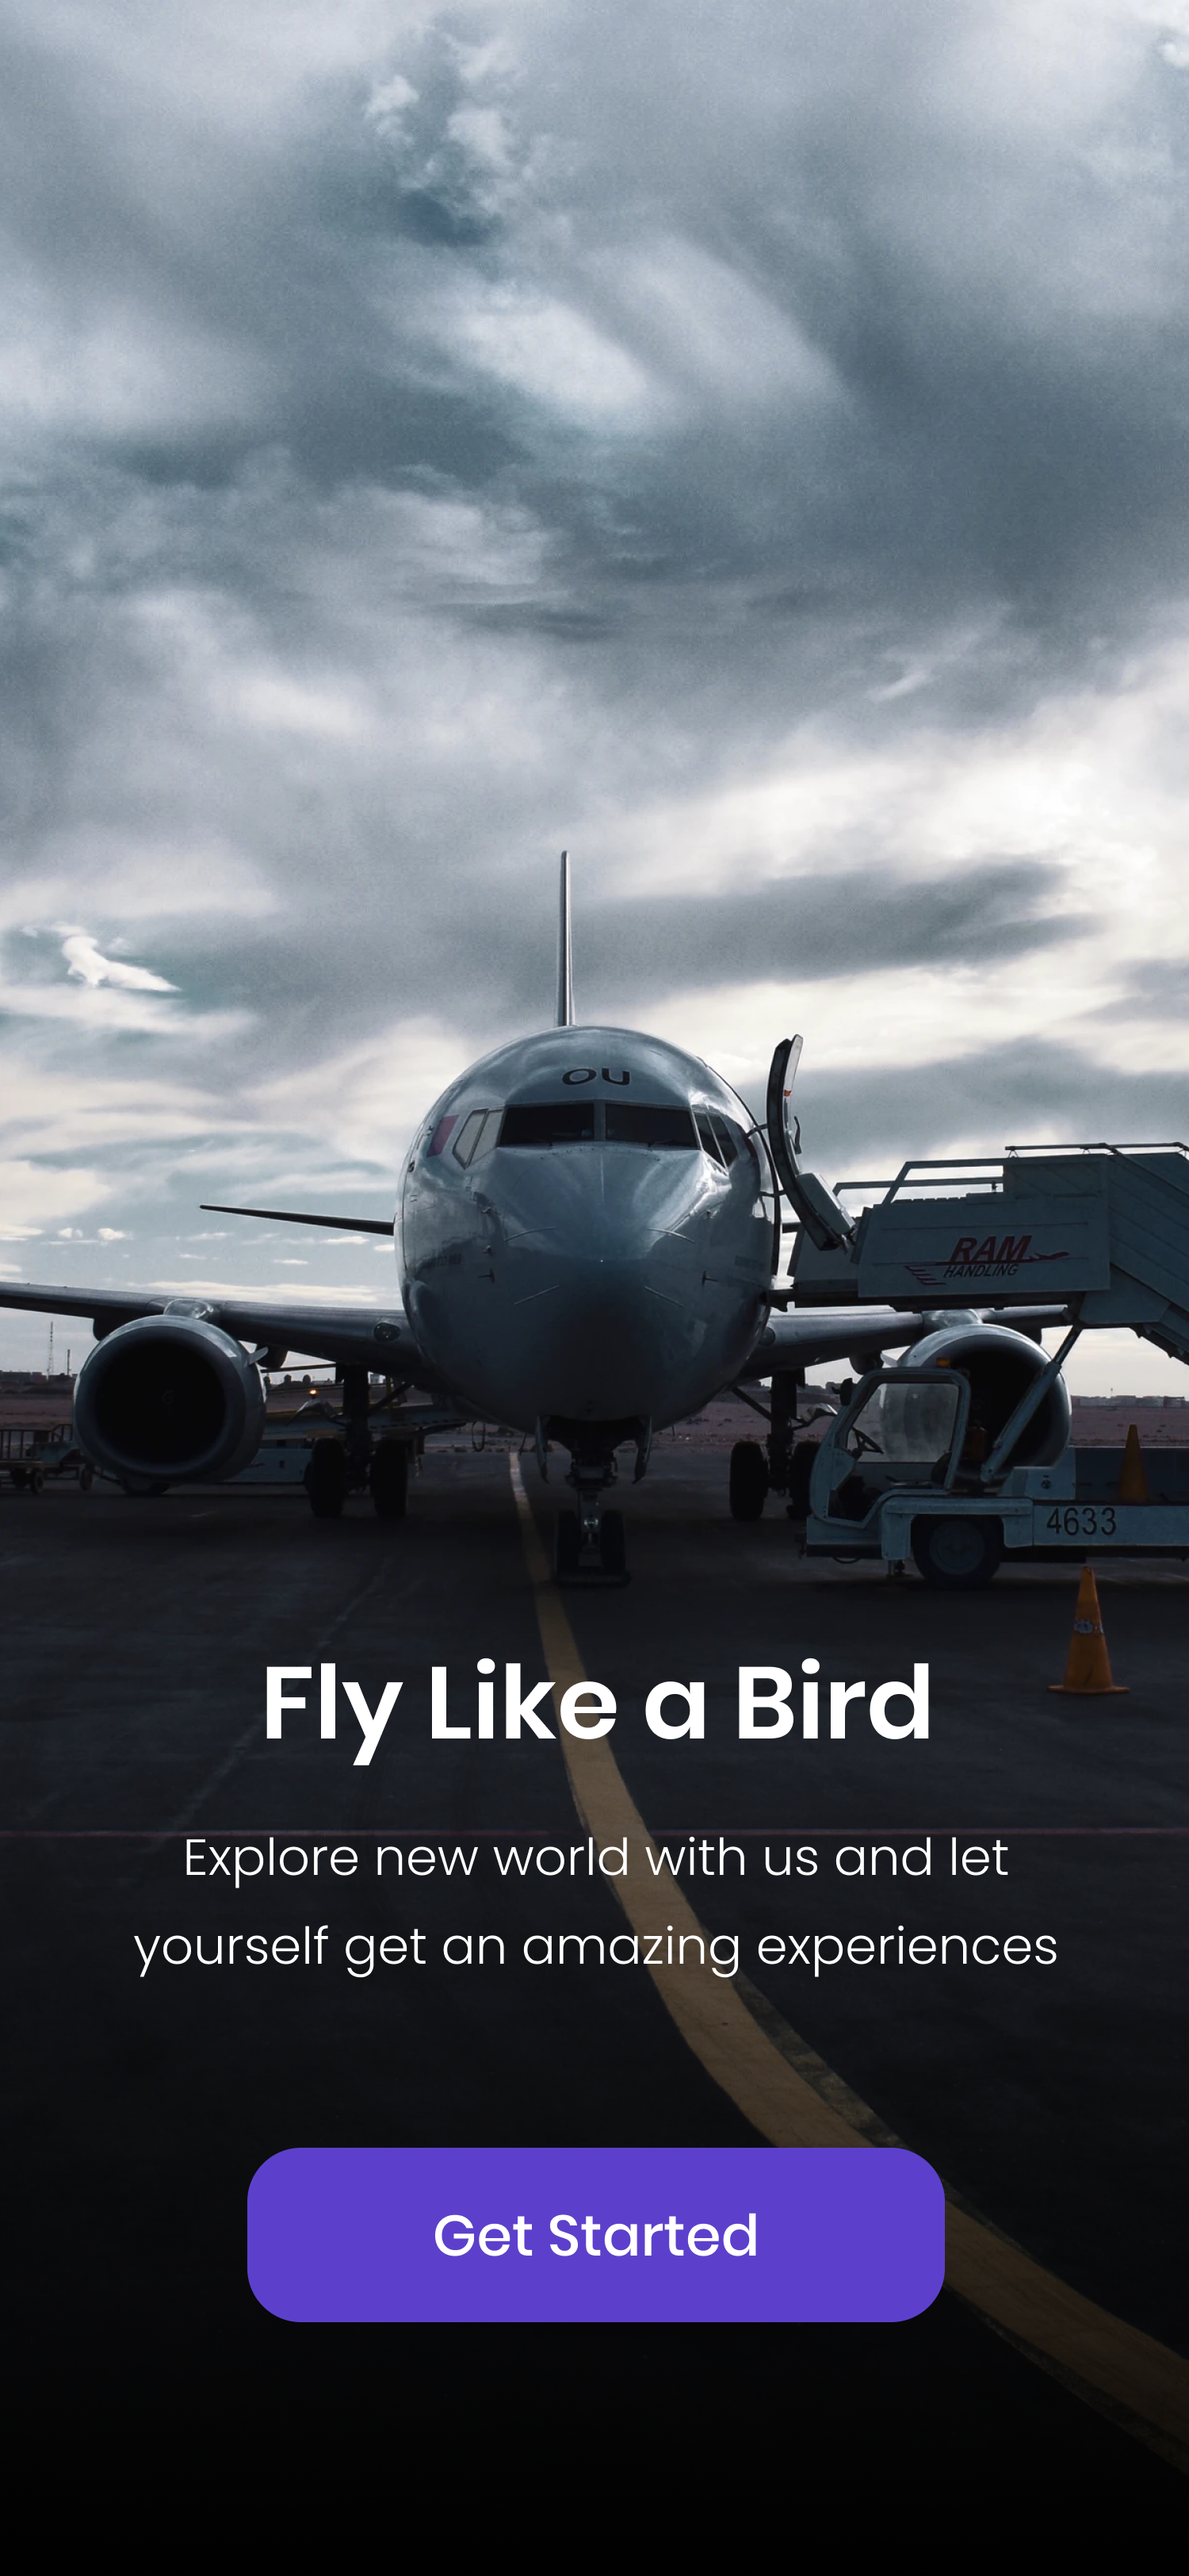
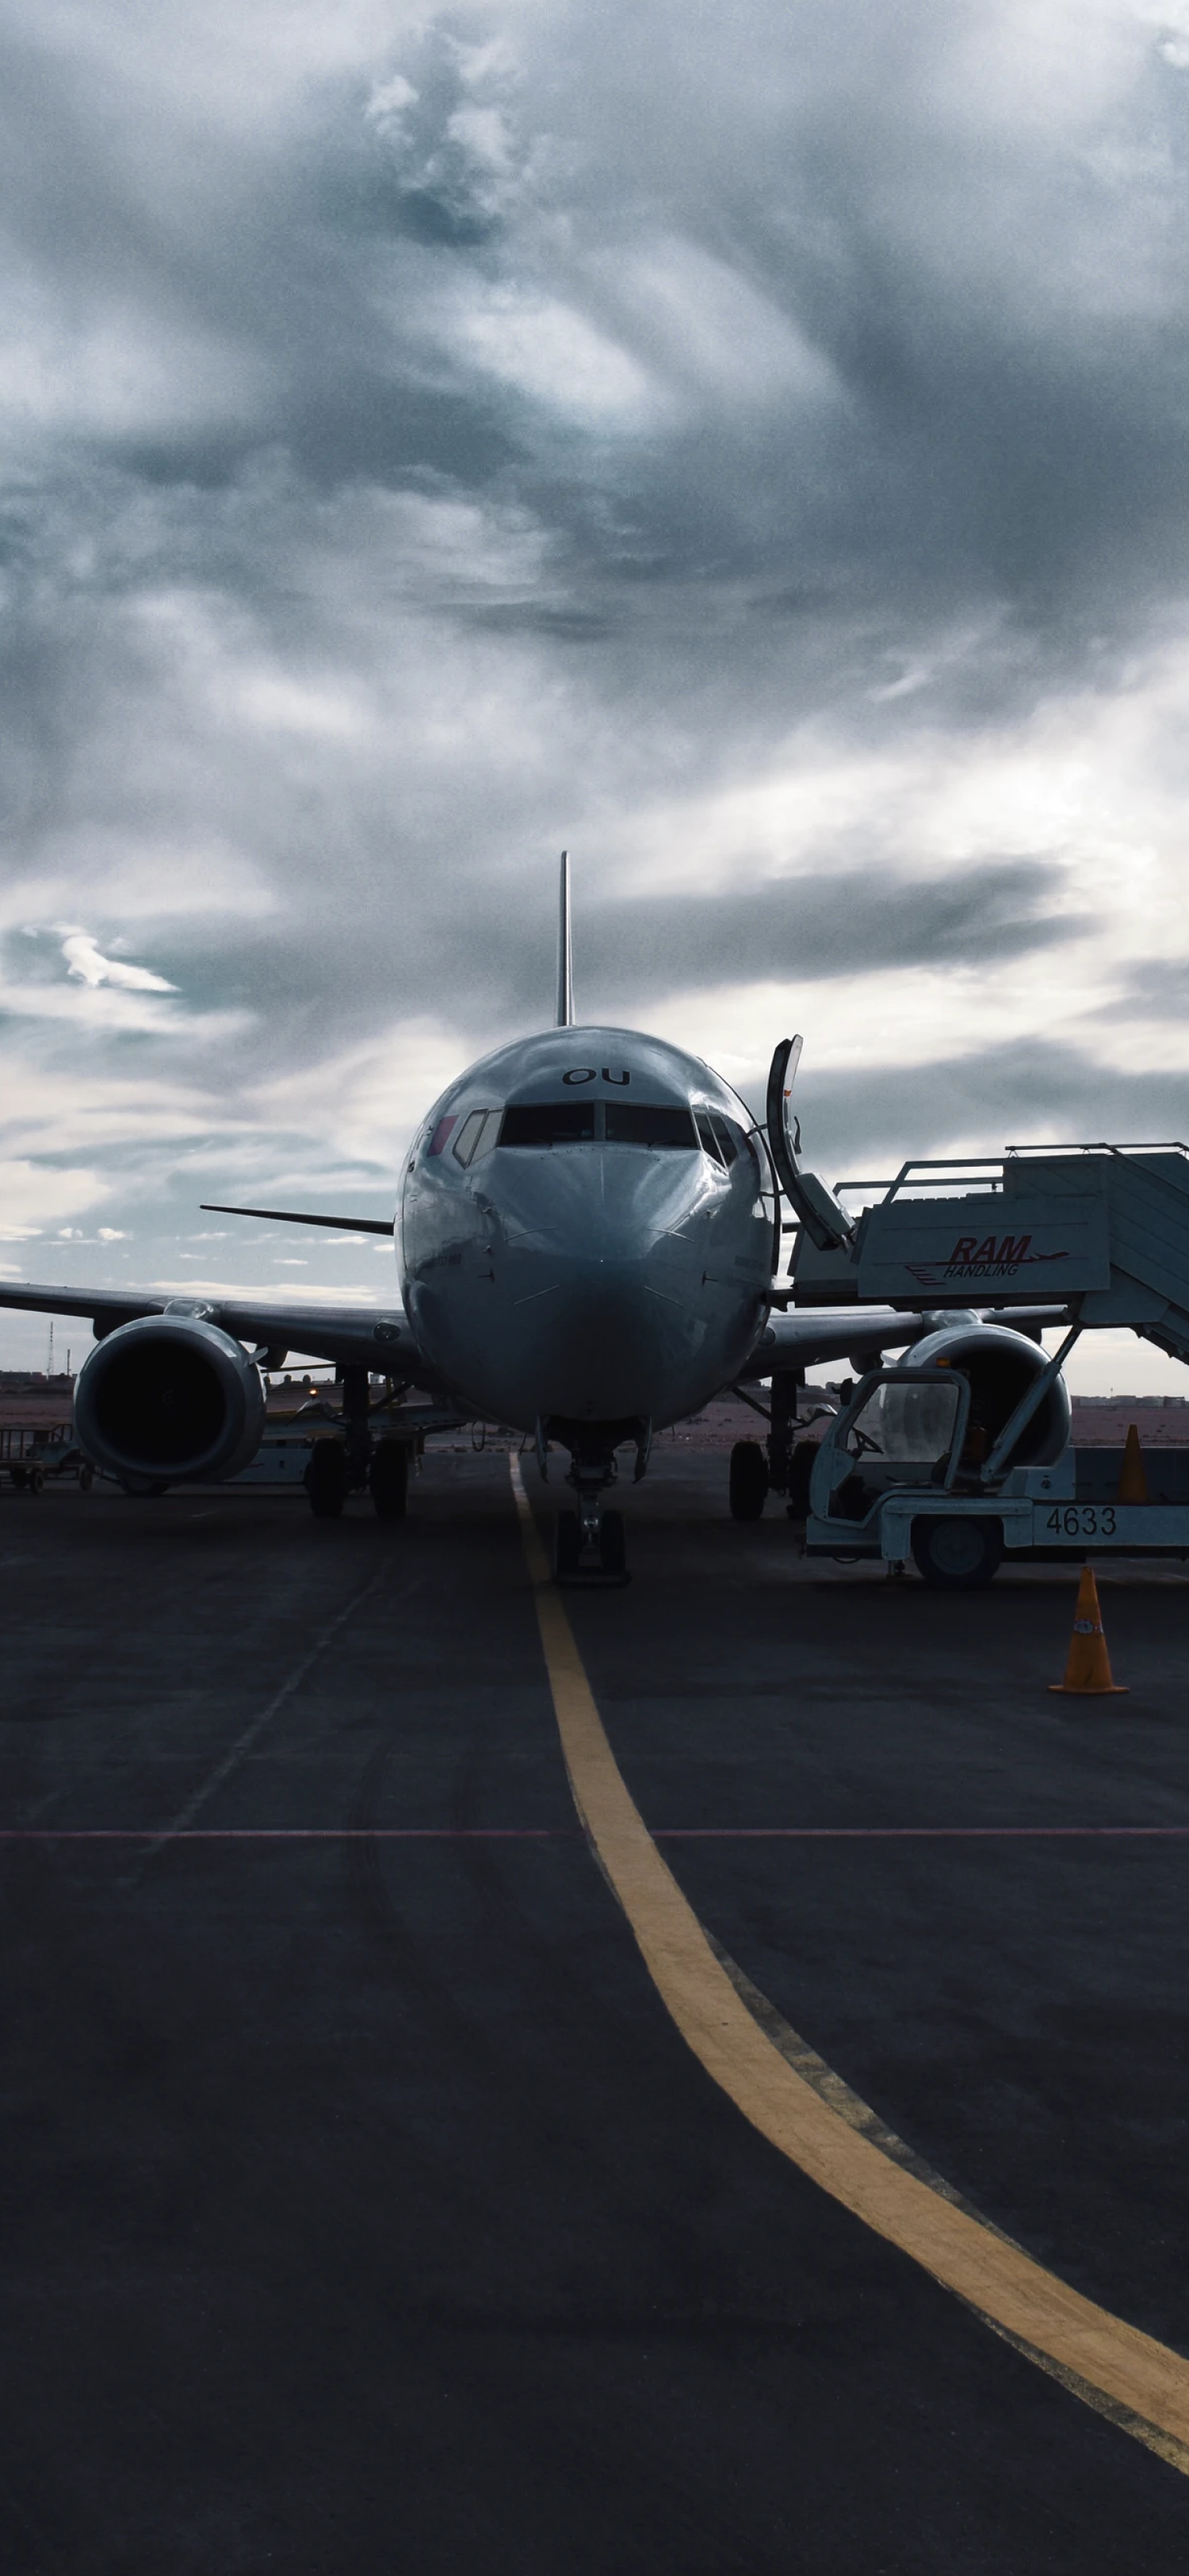
get started ui

diff --git a/lib/ui/pages/get_started_page.dart b/lib/ui/pages/get_started_page.dart
@@ -1,0 +1,66 @@
+import 'package:bwa_airplane/shared/theme.dart';
+import 'package:flutter/material.dart';
+
+class GetStartedPage extends StatelessWidget {
+  const GetStartedPage({Key? key}) : super(key: key);
+
+  @override
+  Widget build(BuildContext context) {
+    return Scaffold(
+      body: Stack(
+        children: [
+          Container(
+            width: double.infinity,
+            height: double.infinity,
+            decoration: BoxDecoration(
+                image: DecorationImage(
+                    image: AssetImage('assets/image_get_started.png'),
+                    fit: BoxFit.cover)),
+          ),
+          Center(
+            child: Column(
+              mainAxisAlignment: MainAxisAlignment.end,
+              children: [
+                Text(
+                  'Fly like a bird',
+                  style: whiteTextStyle.copyWith(
+                    fontSize: 32,
+                    fontWeight: semiBold,
+                  ),
+                ),
+                SizedBox(height: 10),
+                Text(
+                  'Explore new world with us and let yourself get an amazing experiences',
+                  style: whiteTextStyle.copyWith(
+                    fontSize: 16,
+                    fontWeight: light,
+                  ),
+                  textAlign: TextAlign.center,
+                ),
+                Container(
+                  margin: EdgeInsets.only(top: 50, bottom: 80),
+                  width: 220,
+                  height: 55,
+                  child: TextButton(
+                    style: TextButton.styleFrom(
+                      backgroundColor: primaryColor,
+                      shape: RoundedRectangleBorder(
+                        borderRadius: BorderRadius.circular(defaultRadius)
+                      )
+                    ),
+                    onPressed: () {},
+                    child: Text(
+                      'Get Started',
+                      style: whiteTextStyle.copyWith(
+                          fontSize: 18, fontWeight: medium),
+                    ),
+                  ),
+                )
+              ],
+            ),
+          )
+        ],
+      ),
+    );
+  }
+}

diff --git a/lib/ui/pages/splash_page.dart b/lib/ui/pages/splash_page.dart
@@ -1,7 +1,23 @@
+import 'dart:async';
+
 import 'package:bwa_airplane/shared/theme.dart';
+import 'package:bwa_airplane/ui/pages/get_started_page.dart';
 import 'package:flutter/material.dart';
 
-class SplashPage extends StatelessWidget {
+class SplashPage extends StatefulWidget {
+  @override
+  State<SplashPage> createState() => _SplashPageState();
+}
+
+class _SplashPageState extends State<SplashPage> {
+  @override
+  void initState() {
+    Timer(Duration(seconds: 3), () {
+      Navigator.pushNamed(context, '/get-started');
+    });
+    super.initState();
+  }
+
   @override
   Widget build(BuildContext context) {
     return Scaffold(

diff --git a/lib/main.dart b/lib/main.dart
@@ -1,3 +1,4 @@
+import 'package:bwa_airplane/ui/pages/get_started_page.dart';
 import 'package:flutter/material.dart';
 
 import 'ui/pages/splash_page.dart';
@@ -14,7 +15,10 @@ class MyApp extends StatelessWidget {
   Widget build(BuildContext context) {
     return MaterialApp(
       debugShowCheckedModeBanner: false,
-      home: SplashPage(),
+      routes: {
+        '/': (context) => SplashPage(),
+        '/get-started': (context) => GetStartedPage()
+      },
     );
   }
 }

diff --git a/lib/shared/theme.dart b/lib/shared/theme.dart
@@ -1,6 +1,9 @@
 import 'package:flutter/material.dart';
 import 'package:google_fonts/google_fonts.dart';
 
+double defaultMargin = 24.0;
+double defaultRadius = 17.0;
+
 Color primaryColor = const Color(0xff5C40CC);
 Color backgroundColor = const Color(0xffFAFAFA);
 Color kBlackColor = const Color(0xff1F1449);
